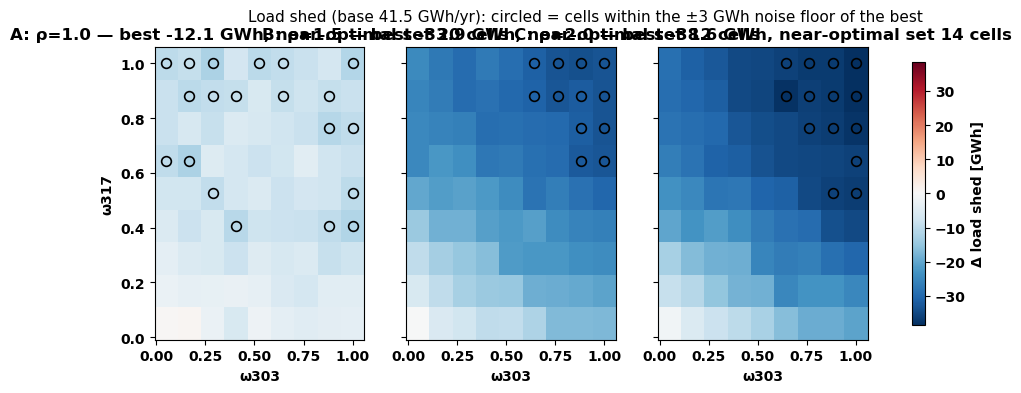
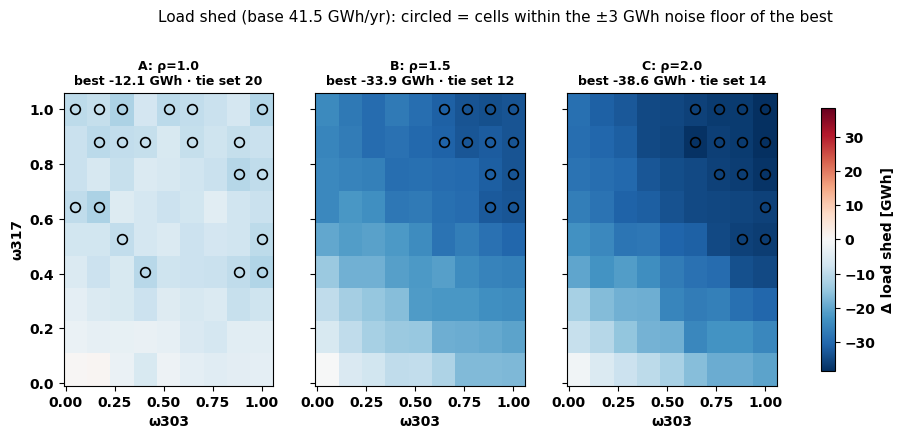
pi_0911: fix overlapping titles in the 4.2 load-shed figure; refresh md export

diff --git a/trial_0826/campaign/analysis/pi_0911/pi_0911.md b/trial_0826/campaign/analysis/pi_0911/pi_0911.md
@@ -480,11 +480,13 @@ for ax, t in zip(axes, SCEN):
     best = d.delta_load_shed_mwh.min()
     near = d[d.delta_load_shed_mwh <= best + FLOORS['delta_load_shed_mwh']]
     ax.plot(near.wind_303_omega, near.wind_317_omega, 'o', mfc='none', mec='k', ms=7, mew=1.2)
-    ax.set_title(f'{t}: ρ={SCEN[t]} — best {best/1e3:.1f} GWh, near-optimal set {len(near)} cells')
+    ax.set_title(f'{t}: ρ={SCEN[t]}\nbest {best/1e3:.1f} GWh · tie set {len(near)}',
+                 fontsize=9)
     ax.set_xlabel('ω303')
 axes[0].set_ylabel('ω317')
 cb = fig.colorbar(pm, ax=axes, shrink=0.9); cb.set_label('Δ load shed [GWh]')
-fig.suptitle('Load shed (base 41.5 GWh/yr): circled = cells within the ±3 GWh noise floor of the best', fontsize=11)
+fig.suptitle('Load shed (base 41.5 GWh/yr): circled = cells within the ±3 GWh noise floor of the best',
+             fontsize=11, y=1.10)
 plt.show()
 for t in SCEN:
     d = co[t]
